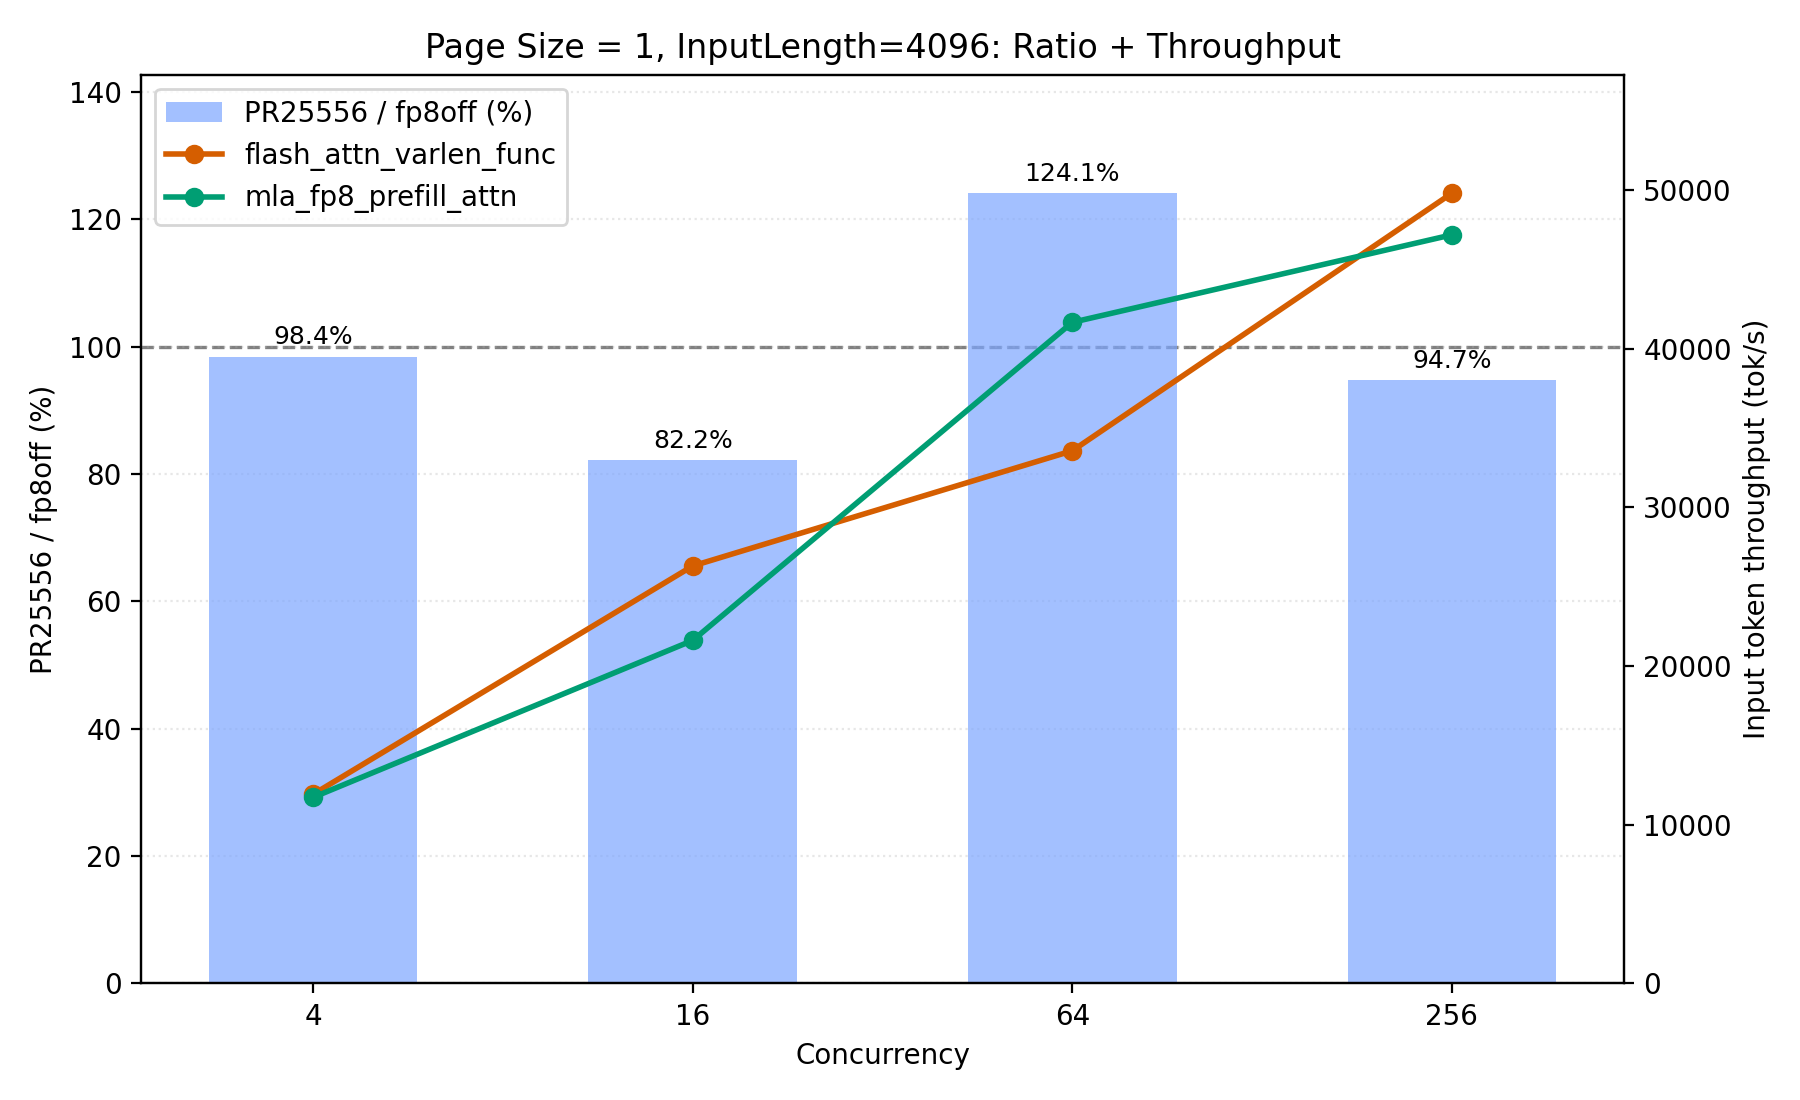
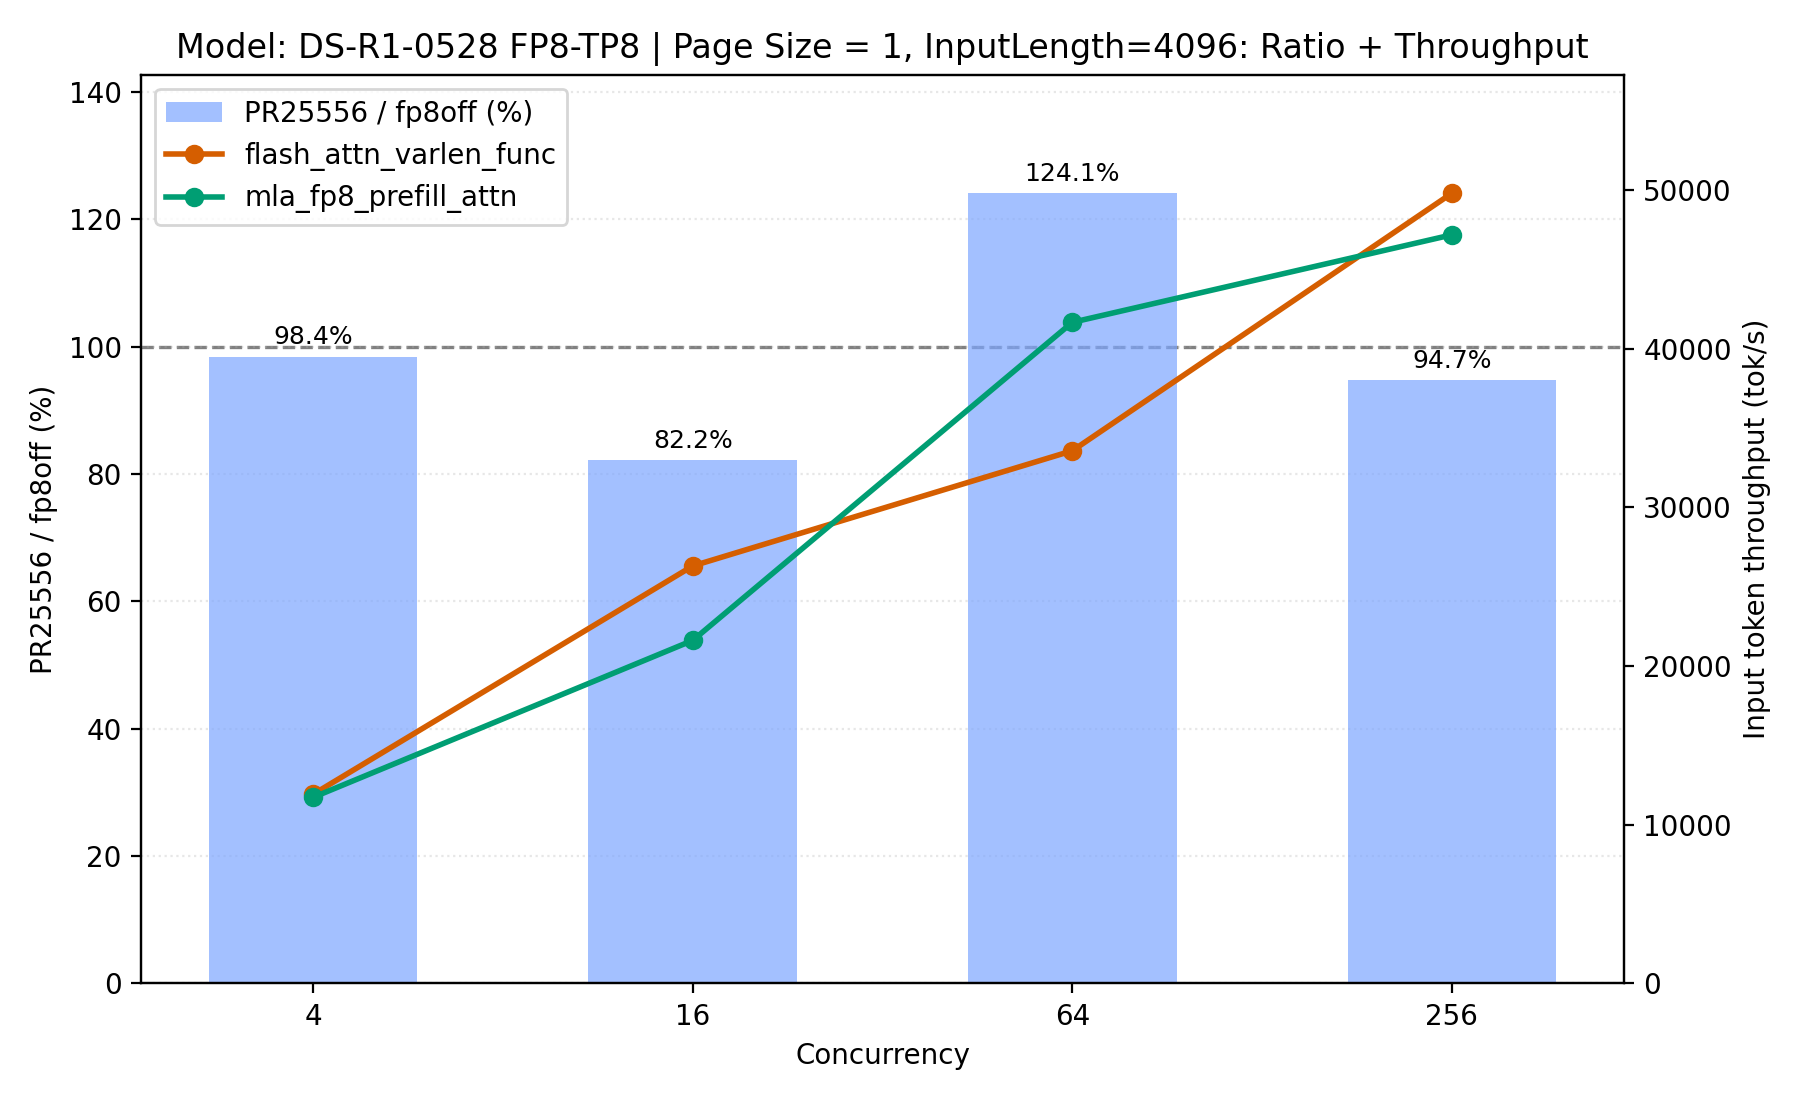
PrefillKernel: update chart titles and local output paths.
Point plotting scripts to the maintained PrefillKernel folder and add model context in chart titles, then regenerate the throughput and TTFT figures with the updated labels.

Changed region(s): [[0.0933, 0.0309, 0.7467, 0.0618], [0.7778, 0.0309, 0.9022, 0.0618]]

diff --git a/PrefillKernel/plot_ttft_ratio_dual_axis.py b/PrefillKernel/plot_ttft_ratio_dual_axis.py
@@ -7,7 +7,8 @@ import matplotlib.pyplot as plt
 import numpy as np
 
 
-ROOT = Path("/home/jacchang/plots/pagesize_pr25556_matrix_20260521_025634")
+ROOT = Path("/home/jacchang/SGLang-benchmarks/PrefillKernel")
+DATA_ROOT = Path("/home/jacchang/plots/pagesize_pr25556_matrix_20260521_025634")
 CONCS = [4, 16, 64, 256]
 CASES = {
     "page1_fp8off": {"page_size": 1, "method": "SGLANG_AITER_FP8_PREFILL_ATTN=0"},
@@ -21,7 +22,7 @@ def load_ttft_data():
     rows = []
     for case, meta in CASES.items():
         for c in CONCS:
-            p = ROOT / case / f"bench_in4096_out1_conc{c}.jsonl"
+            p = DATA_ROOT / case / f"bench_in4096_out1_conc{c}.jsonl"
             with p.open() as f:
                 obj = json.loads(f.readline())
             rows.append(
@@ -103,7 +104,10 @@ def plot_one(page_size, base, pr_vals, ratio_pct):
     ax2.set_ylim(ymin, ymax)
     ax2.set_ylabel("TTFT (ms)")
 
-    ax1.set_title(f"Page Size = {page_size}, InputLength=4096: Ratio + TTFT")
+    ax1.set_title(
+        f"Model: DS-R1-0528 FP8-TP8 | "
+        f"Page Size = {page_size}, InputLength=4096: Ratio + TTFT"
+    )
 
     h1, l1 = ax1.get_legend_handles_labels()
     h2, l2 = ax2.get_legend_handles_labels()

diff --git a/PrefillKernel/plot_throughput_ratio_dual_axis.py b/PrefillKernel/plot_throughput_ratio_dual_axis.py
@@ -6,7 +6,7 @@ import matplotlib.pyplot as plt
 import numpy as np
 
 
-ROOT = Path("/home/jacchang/plots/pagesize_pr25556_matrix_20260521_025634")
+ROOT = Path("/home/jacchang/SGLang-benchmarks/PrefillKernel")
 PIVOT_CSV = ROOT / "input_throughput_comparison_pivot.csv"
 
 
@@ -80,7 +80,10 @@ def plot_one(page_size, concs, base, pr_vals, ratio_pct):
     ax2.set_ylim(0, ymax)
     ax2.set_ylabel("Input token throughput (tok/s)")
 
-    title = f"Page Size = {page_size}, InputLength=4096: Ratio + Throughput"
+    title = (
+        f"Model: DS-R1-0528 FP8-TP8 | "
+        f"Page Size = {page_size}, InputLength=4096: Ratio + Throughput"
+    )
     ax1.set_title(title)
 
     # Joint legend
